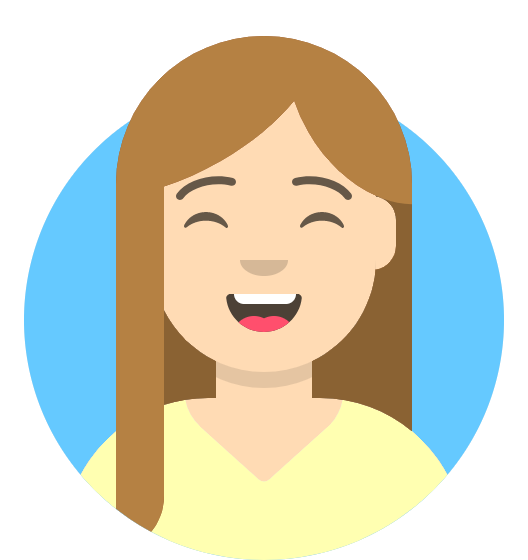
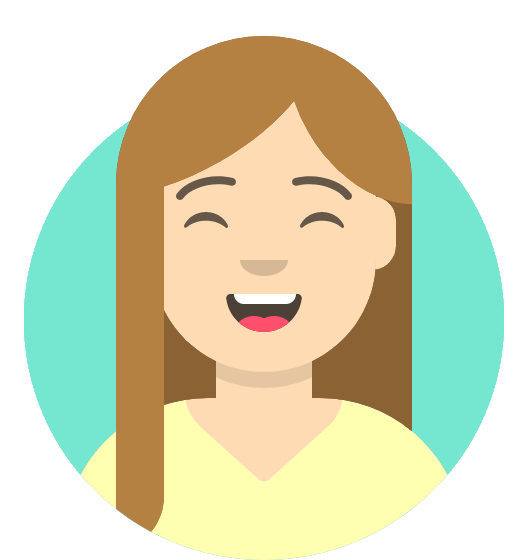
Style changes

Changed region(s): [[0.7576, 0.2125, 0.9697, 0.85], [0.0303, 0.2125, 0.2424, 0.85]]

diff --git a/src/ContactForm.js b/src/ContactForm.js
@@ -21,7 +21,7 @@ const useStyles = makeStyles(theme => ({
     },
     button: {
         backgroundColor: theme.palette.secondary.main,
-        width: '50%',
+        // width: '50%',
         color: theme.palette.light.main,
         '&:hover':{
             backgroundColor: theme.palette.tertiary.main
@@ -38,9 +38,12 @@ export default function ContactForm() {
             <Box component="section" textAlign="center" className={classes.root} m={0} px={{ xs: 2, sm: 3, md: 5 }} py={{ xs: 5, sm: 10, md: 15 }} id="contact">
                 <Container>
                     <Typography className={classes.title} variant="h2" gutterBottom>Contact</Typography>
-                    <Paper square elevation={3} className={classes.paper}>
+                    <Paper elevation={3} className={classes.paper}>
+                        <Typography variant="h5">
+                            <p>Thank you</p>
+                        </Typography>
                         <Typography paragraph>
-                            <p>Thank you - your message has been sent!</p>
+                            <p>Your message has been sent!</p>
                         </Typography>
                     </Paper>
                 </Container>
@@ -53,7 +56,7 @@ export default function ContactForm() {
 
             <Container>
                 <Typography className={classes.title} variant="h2" gutterBottom>Contact</Typography>
-                    <Paper square elevation={3} className={classes.paper}>
+                    <Paper elevation={3} className={classes.paper}>
                         <form onSubmit={handleSubmit} autoComplete="off">
                             <TextField className={classes.input}
                                 fullWidth
@@ -85,6 +88,7 @@ export default function ContactForm() {
                                 required
                             />
                             <Button
+                                fullWidth
                                 type="submit"
                                 variant="contained"
                                 className={classes.button}

diff --git a/src/Header.js b/src/Header.js
@@ -26,21 +26,21 @@ const useStyles = makeStyles(({ palette }) => ({
         '& a svg': {
             fontSize: '3.5rem',
             margin: '0 1rem',
-            transition: 'all 300ms ease-out',
+            transition: 'all 200ms ease-in-out',
             color: 'black',
             cursor: 'pointer',
             '&:hover': {
-                color: palette.primary.main,
-                transform: 'scale(1.26)',
+                color: palette.tertiary.main,
+                transform: 'scale(1.25)',
             }
         },
     },
     highlight1: {
-        backgroundColor: palette.secondary.main,
+        backgroundColor: palette.secondary.highlight,
         padding: '5px',
     },
     highlight2: {
-        backgroundColor: palette.tertiary.main,
+        backgroundColor: palette.tertiary.highlight,
         padding: '5px',
     },
 }))
@@ -97,19 +97,19 @@ export default function Header() {
                             "attract": true
                         },
                         "color": {
-                            "value": ["#2ec4b6", "#ff9f1c", "#e71d36"]
+                            "value": ["#ffa69e", "#aed9e0", "#b8f2e6"]
                             // "value": ["#f64f55", "#ed9479", "#f1e076", "#97d4b9", "#65b8ce", "#ec95ce"]
                         },
                         "shape": {
                             "type": ["polygon"],
                         },
                         "opacity": {
-                            "value": 0.7,
+                            "value": 0.9,
                             "random": true,
                             "anim": {
                                 "enable": true,
                                 "speed": 1,
-                                "opacity_min": 0.3
+                                "opacity_min": 0.5
                             },
                         },
                     },

diff --git a/src/ProjectCard.js b/src/ProjectCard.js
@@ -17,21 +17,21 @@ const useStyles = makeStyles(theme => ({
     },
     button: {
         fontWeight: 'bold',
-        backgroundColor: theme.palette.primary.main,
+        backgroundColor: theme.palette.dark.main,
         color: theme.palette.white.main,
         '&:first-of-type': {
             backgroundColor: theme.palette.secondary.main,
         },
         '&:hover': {
-            backgroundColor: theme.palette.tertiary.main
+            backgroundColor: theme.palette.tertiary.main,
         }
     },
     skillsBox: {
         margin: '1rem 0'
     },
     chip: {
-        borderColor: theme.palette.tertiary.main,
-        color: theme.palette.tertiary.main,
+        backgroundColor: theme.palette.primary.main,
+        color: theme.palette.white.main,
         margin: '0.1rem'
     }
 }))
@@ -41,7 +41,7 @@ export default function ProjectCard({ name, description, img, demoUrl, repoUrl, 
 
     return (
         <FadeInSection direction="up">
-            <Card className={classes.root} elevation={3} square>
+            <Card className={classes.root} elevation={3}>
                 <CardMedia
                     component="img"
                     height="250"
@@ -58,8 +58,7 @@ export default function ProjectCard({ name, description, img, demoUrl, repoUrl, 
                         {skills.map(name => (
                             <Chip
                                 className={classes.chip}
-                                label={name} 
-                                variant="outlined"/>
+                                label={name}/>
                         ))}
                     </Box>
                     <Typography variant="body2" component="p">

diff --git a/src/Footer.js b/src/Footer.js
@@ -14,6 +14,10 @@ const useStyles = makeStyles((theme) => ({
             color: 'white'
         }
     },
+    heart: {
+        marginBottom: '-6px',
+        color: theme.palette.primary.main
+    }
 }));
 
 export default function Footer() {
@@ -21,7 +25,7 @@ export default function Footer() {
     return (
         <Box className={classes.root} component="footer" justifyContent="center" textAlign="center" alignItems="center">
             <Container>
-                <p>Made with <FavoriteIcon style={{ color: 'rgba(246,79,85, 1)', marginBottom: '-5px'}}/> by <a href="http://github.com/haobrien" target="_blank" rel="noreferrer">Heather OBrien</a></p>
+                <p>Made with <FavoriteIcon className={classes.heart}/> by <a href="http://github.com/haobrien" target="_blank" rel="noreferrer">Heather OBrien</a></p>
             </Container>
         </Box>
     )

diff --git a/src/App.js b/src/App.js
@@ -40,23 +40,23 @@ const theme = createTheme({
     },
     dark: {
       // This is green.A700 as hex.
-      main: '#023047',
+      main: '#5e6472',
       highlight: 'rgba(101,184,206,0.5)'
     },
     primary: {
       // This is green.A700 as hex.
-      main: '#2ec4b6',
-      highlight: 'rgba(224, 122, 95,0.5)'
+      main: '#ffa69e',
+      highlight: 'rgba(255, 166, 158,0.5)'
     },
     secondary: {
       // This is green.A700 as hex.
-      main: '#ff9f1c',
-      highlight: 'rgba(242, 204, 143,0.5)'
+      main: '#aed9e0',
+      highlight: 'rgba(174, 217, 224,0.5)'
     },
     tertiary: {
       // This is green.A700 as hex.
-      main: '#e71d36',
-      highlight: 'rgba(129, 178, 154, 0.5)',
+      main: '#75E6CF',
+      highlight: 'rgba(117, 230, 207, 0.5)',
     },
     // pink: {
     //   // This is green.A700 as hex.

diff --git a/src/Skill.js b/src/Skill.js
@@ -10,11 +10,12 @@ const useStyles = makeStyles(theme => ({
         boxShadow: theme.shadows[3],
     },
     icon: {
-        color: theme.palette.dark.main,
+        color: theme.palette.primary.main,
     },
     back: {
         '& div': {
-            backgroundColor: theme.palette.dark.main
+            backgroundColor: theme.palette.tertiary.main,
+            color: theme.palette.white.main
         }
     }
 }))

diff --git a/src/SkillsContainer.js b/src/SkillsContainer.js
@@ -6,7 +6,7 @@ import 'devicon'
 
 const useStyles = makeStyles(theme => ({
     root: {
-        backgroundColor: theme.palette.primary.main,
+        backgroundColor: theme.palette.dark.main,
     },
     title:{
         color: theme.palette.white.main

diff --git a/src/About.js b/src/About.js
@@ -29,7 +29,7 @@ const useStyles = makeStyles(theme => ({
         textAlign: 'center',
     },
     iconBox: {
-        color: theme.palette.secondary.main
+        color: theme.palette.primary.main
     }
 }))
 
